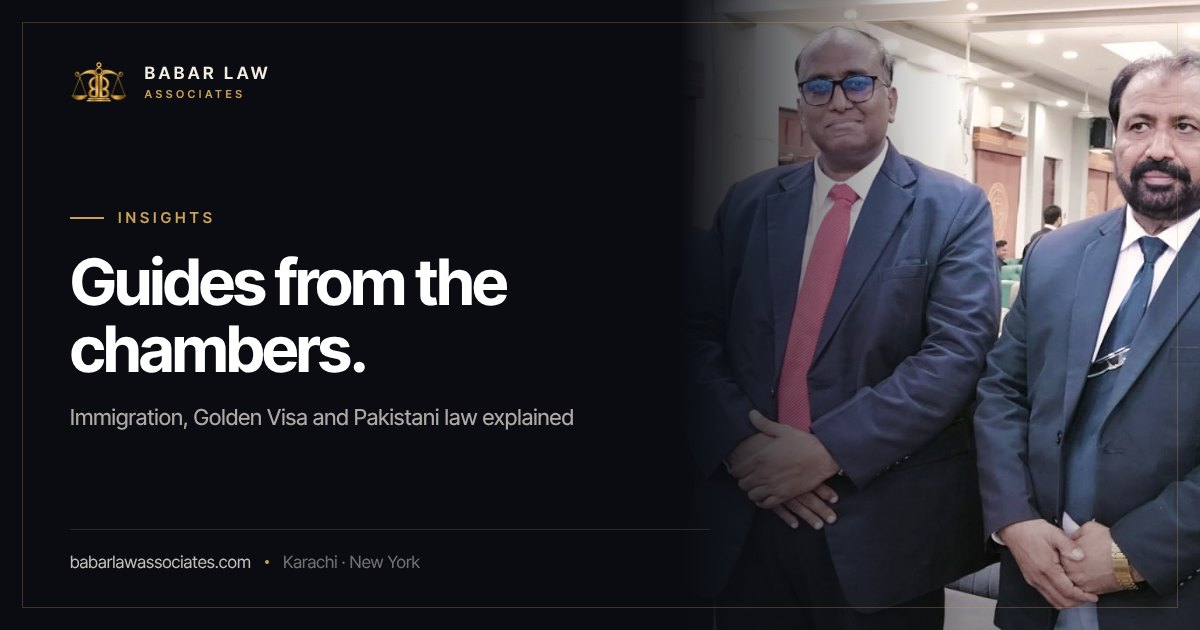
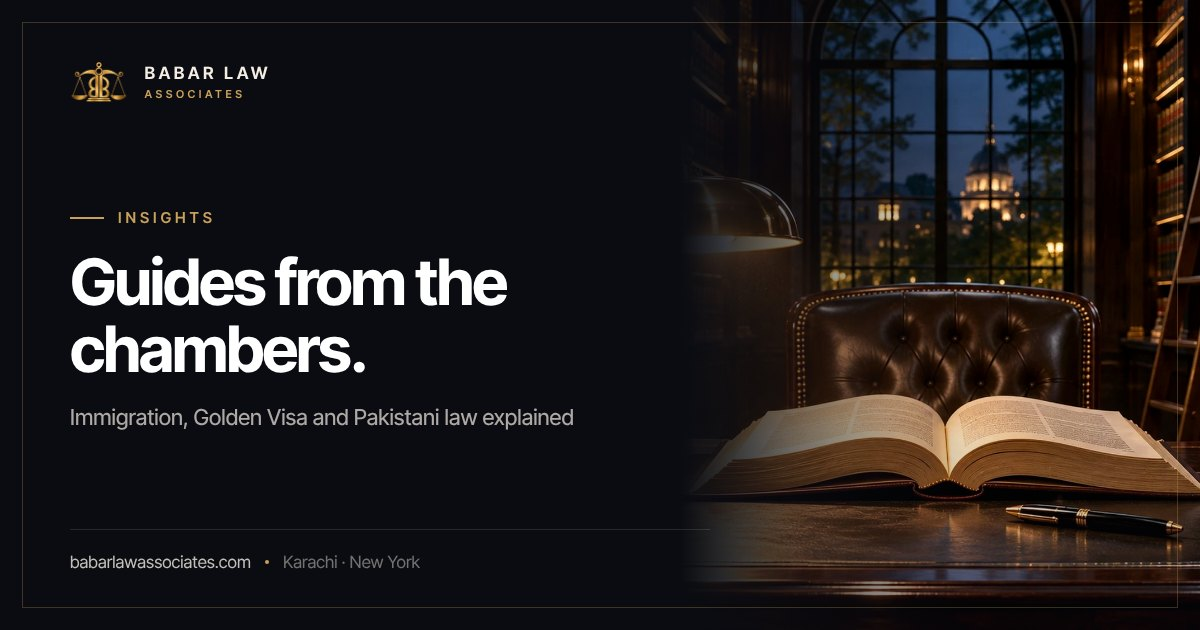
Library hero; sharper Google titles for bail and Cyprus guides
- Academic & advisory hero: new law library image (the lecture photo
  remains as the side image); Insights preview card uses it too
- Bail guide title targets the searches it already appears for ("what
  is pre arrest bail", "pre arrest bail section"): "Pre-Arrest Bail in
  Pakistan (Section 498 CrPC): What It Is & How to Apply"
- Cyprus guide title adds "Golden Visa" to match "cyprus golden visa
  lawyer" (33 impressions, no clicks yet)

Claude-Session: https://claude.ai/code/session_01De2432audqsWNzksNNy9kc

diff --git a/lib/insights.ts b/lib/insights.ts
@@ -160,7 +160,7 @@ export const articles: Article[] = [
   {
     slug: "cyprus-permanent-residency-for-pakistani-investors",
     title: "Cyprus permanent residency: a guide for Pakistani investors",
-    seoTitle: "Cyprus Permanent Residency for Pakistani Investors (€300,000 Route)",
+    seoTitle: "Cyprus Golden Visa (Permanent Residency) for Pakistani Investors: €300,000 Route",
     description:
       "How Cyprus permanent residency by investment works for investors from Pakistan: the €300,000 requirement, income rules, who can be included, what the permit allows, and the steps to apply.",
     date: "2026-11-09",
@@ -270,9 +270,9 @@ export const articles: Article[] = [
   {
     slug: "pre-arrest-bail-in-sindh-explained",
     title: "Pre-arrest bail in Sindh, explained",
-    seoTitle: "Pre-arrest Bail in Sindh Explained: Process and Requirements",
+    seoTitle: "Pre-Arrest Bail in Pakistan (Section 498 CrPC): What It Is & How to Apply",
     description:
-      "What pre-arrest bail is, when courts in Sindh grant it, how it differs from post-arrest and protective bail, and what to prepare if you fear arrest in a case you believe is false.",
+      "What is pre-arrest bail under Section 498 CrPC, when courts in Sindh grant it, how it differs from post-arrest and protective bail, and what to prepare if you fear arrest in a false case.",
     date: "2026-11-05",
     readMinutes: 5,
     category: "Litigation",

diff --git a/lib/practice.ts b/lib/practice.ts
@@ -239,9 +239,9 @@ export const practicePages: PracticePage[] = [
     ],
     forWhom: "Universities, law colleges, bar associations and students.",
     related: ["immigration-visas", "corporate-commercial"],
-    hero: "/assets/gallery/photo-20.jpg",
-    heroPos: "center 30%",
-    heroAlt: "Ghulam Shabbir Babar lecturing at PAF-KIET, Karachi",
+    hero: "/assets/hero/law-library.jpg",
+    heroPos: "center 50%",
+    heroAlt: "A law library at night, with an open book under a brass lamp",
     side: "/assets/podium.png",
     sideAlt: "Ghulam Shabbir Babar speaking at a university podium",
     sidePos: "40% center",
